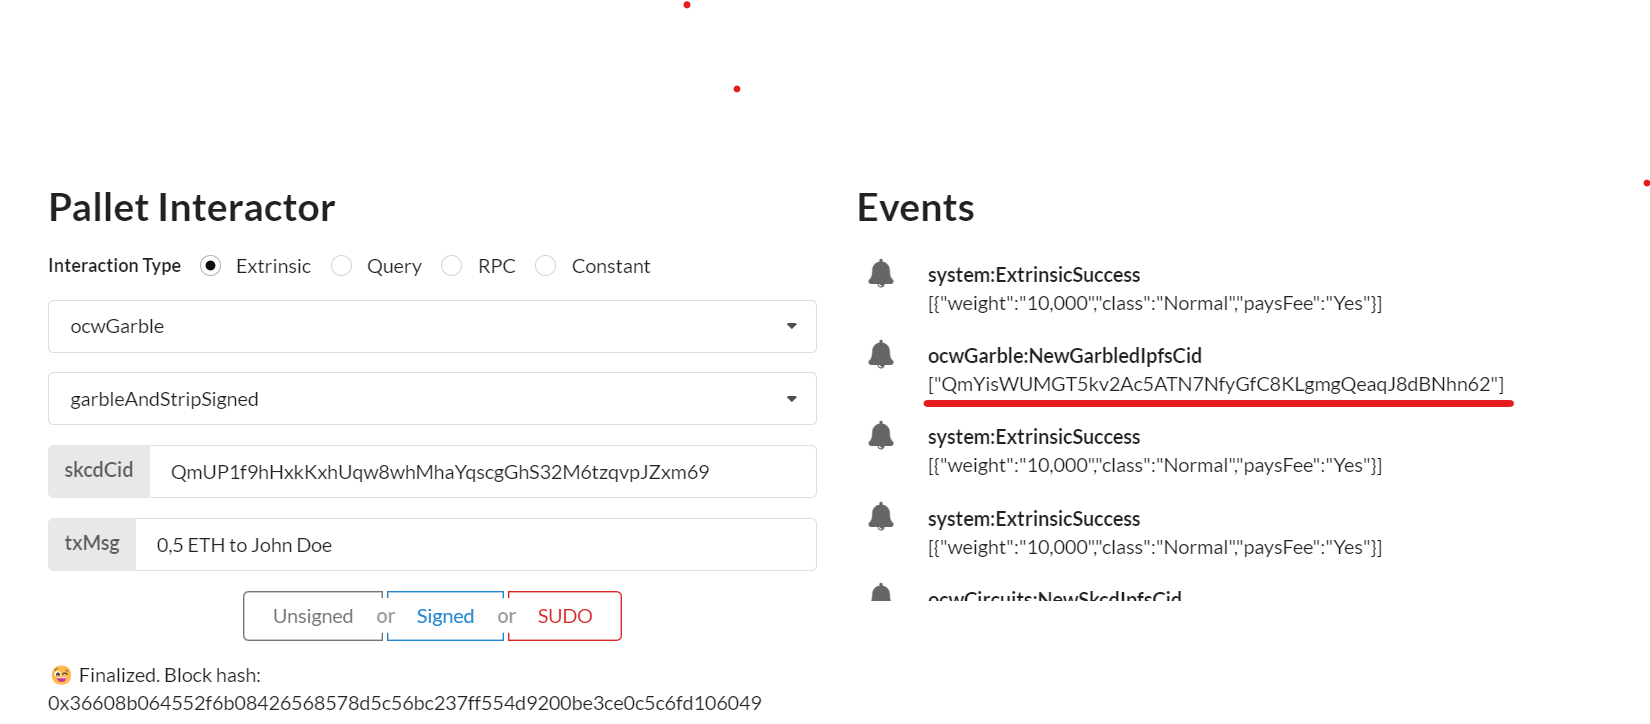
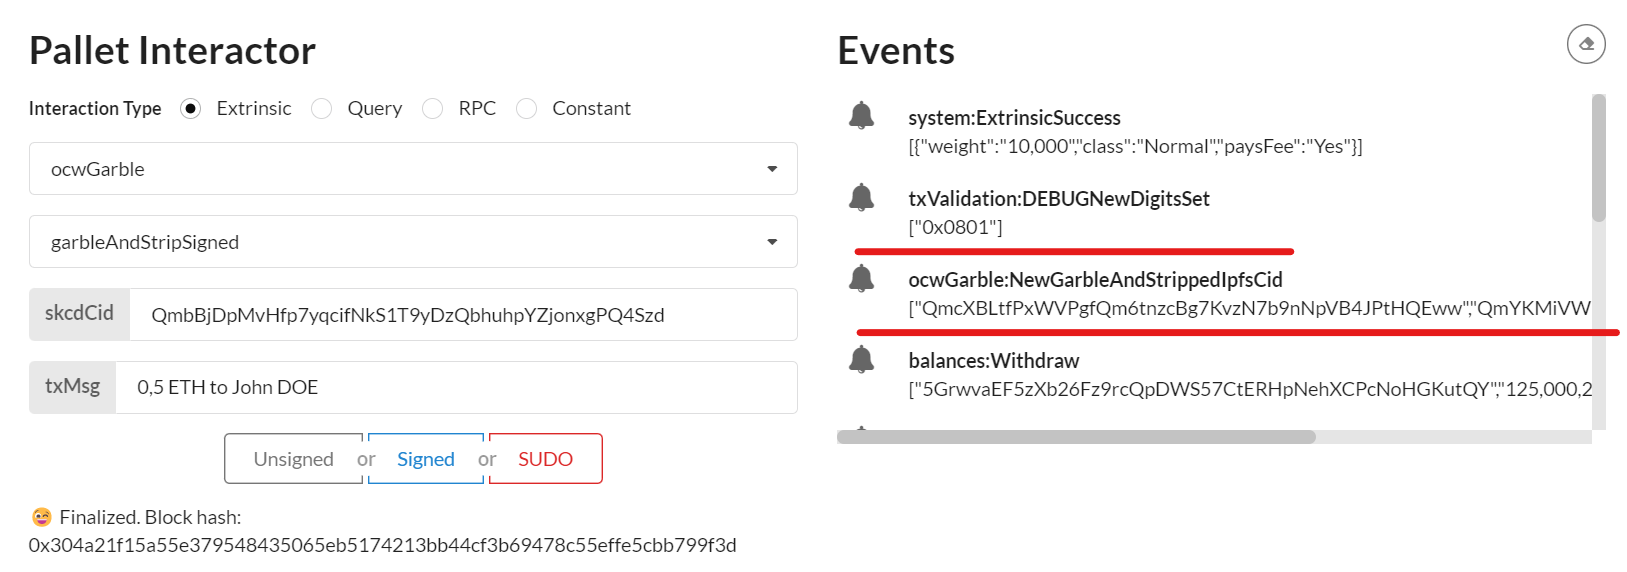
update

diff --git a/src/M2_demo_tutorial.md b/src/M2_demo_tutorial.md
@@ -11,7 +11,7 @@
 ### Launch ipfs deamon
 
 ```sh
-GO_IPFS_PATH=/usr/local/bin/ipfs
+export GO_IPFS_PATH=/usr/local/bin/ipfs
 ```
 ```sh
 IPFS_PATH=/tmp/ipfs $GO_IPFS_PATH init -p test
@@ -69,7 +69,7 @@ cd substrate-offchain-worker-demo
 ````
 
 
-build the substrate chain....
+build and run the substrate chain....
 
 ```sh
 RUST_LOG="warn,info" cargo run -- --dev --tmp --enable-offchain-indexing=1
@@ -180,19 +180,12 @@ this circuit can display a transaction message with one time code and a random k
 
 > the 2 generated garbled circuit cids `NewGarbledIpfsCid`will then appear in Events (underlined in red line in this screenshot example)
 
+In this example: "QmcXBLtfPxWVPgfQm6tnzcBg7KvzN7b9nNpVB4JPtHQEww","QmYKMiVWKKG5aYnHKp8shSVGLKCejv2jYCePZ6skkdaVhx"
 
-
+> first one will be use match pgarbled.pb.bin & packmsg.pb.bin
 
 
 ### 2.3 Copy paste the hashs of the 2 generated display garbled circuit (ready to be avaluated)
-
-
-> first one is used to generate pgarble
-
-> second one is used to generate packmsg (ie)
-
-
-
 
 
 
@@ -208,19 +201,17 @@ It can be used for any sensitive operation that need a highly secure confirmtion
 
 ## 3. Evaluation of the display garbled circuit with `GCevaluator` to get the One time code to validate
 
+With as example the previous copied cid we get pgarbled.pb.bin and packmsg.pb.bin to evaluate the garbled circuits with the Display Gc evaluator.
 
 ```sh
-IPFS_PATH=/tmp/ipfs $GO_IPFS_PATH cat QmX9TgCtnAadSu1YDmut4DDfdYeRg3XWnoU4Tmg5mswRs8 > pgarbled.pb.bin
+IPFS_PATH=/tmp/ipfs $GO_IPFS_PATH cat QmcXBLtfPxWVPgfQm6tnzcBg7KvzN7b9nNpVB4JPtHQEww > pgarbled.pb.bin
+```
+```
+IPFS_PATH=/tmp/ipfs $GO_IPFS_PATH cat QmYKMiVWKKG5aYnHKp8shSVGLKCejv2jYCePZ6skkdaVhx > packmsg.pb.bin
+```
 
 
-IPFS_PATH=/tmp/ipfs $GO_IPFS_PATH cat QmVHn9RZLHziVf1XGuUNNNLm23XgU5VgxSBR8tCVqQj9WH> packmsg.pb.bin
-
-
-./tests/cli_eval_stripped --pgarbled_input_path=pgarbled.pb.bin --packmsg_input_path=packmsg.pb.bin
-
-
-
-
+We can now launch the docker with the parameter below to perform the circuit evaluation
 
 if the docker host can use X11: 
 
@@ -228,12 +219,30 @@ if the docker host can use X11:
 docker run -it --rm -v $(pwd):/data/ -v /tmp/.X11-unix:/tmp/.X11-unix -e DISPLAY=$DISPLAY ghcr.io/interstellar-network/lib_garble:milestone2 --pgarbled_input_path=/data/pgarbled.pb.bin --packmsg_input_path=/data/packmsg.pb.bin
 ````
 
+An X11 windows will pop-up
+
+![garble result X11 ](./fig/EvaluationResultX11.png)
+
+
 else: 
 
 ```sh
 docker run -it --rm -v $(pwd):/data/ ghcr.io/interstellar-network/lib_garble:milestone2 --pgarbled_input_path=/data/pgarbled.pb.bin --packmsg_input_path=/data/packmsg.pb.bin --png_output_path=/data/output_eval.png
 ```
-
 > $(pwd)/data path must match ipfs cat cmd
 
+
+a output_eval.png file will be genrerated by the evaluator
+
+```sh
+/tmp/evalcirc$ ls
+output_eval.png  packmsg.pb.bin  pgarbled.pb.bin
+```
+
+
+
+
 ## 4. Check one time code with `TTVP pallet`
+
+
+
